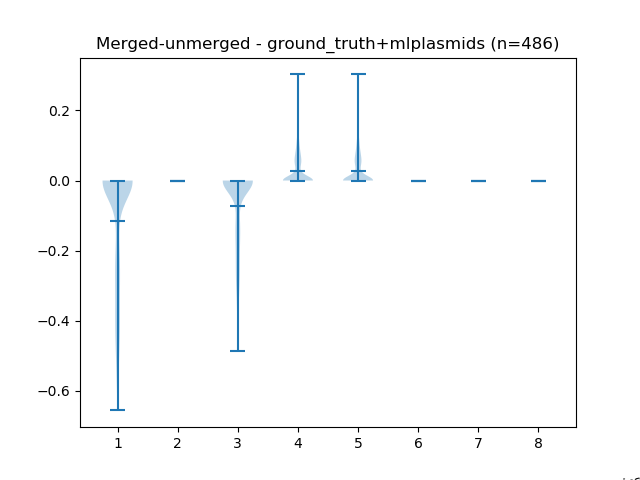
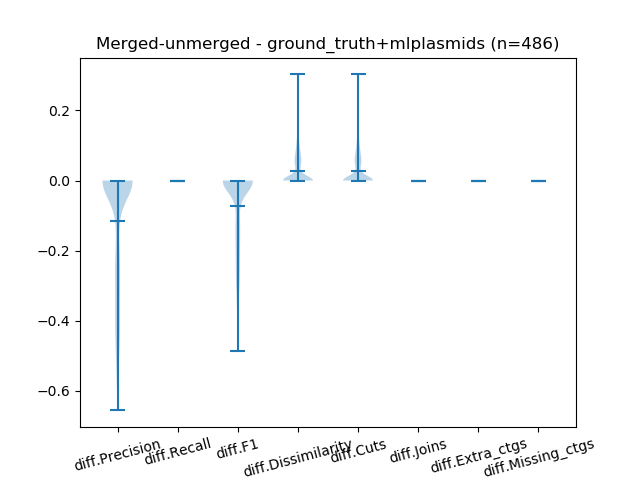
difference figures

Changed region(s): [[0.375, 0.9062, 0.9375, 1.0], [0.125, 0.9062, 0.4062, 1.0]]

diff --git a/exp_20250802/analysis_utils.py b/exp_20250802/analysis_utils.py
@@ -365,8 +365,9 @@ def create_unmerged_vs_merged_difference_boxplot(
     for col in diff_cols: plot_data.append(plot_df[col].values)
     nb_data_points = plot_df.shape[0]
     #plot_df.plot.box(grid=True, rot=15)
+    #plt.xlabel(diff_cols)
     plt.violinplot(plot_data, showmeans=True)
-    plt.xlabel(diff_cols, rotation=15)
+    plt.xticks([i+1 for i in range(len(diff_cols))], diff_cols, rotation=15)
     plt.title(f"{out_title} (n={nb_data_points})")
     plt.savefig(out_file)
             
